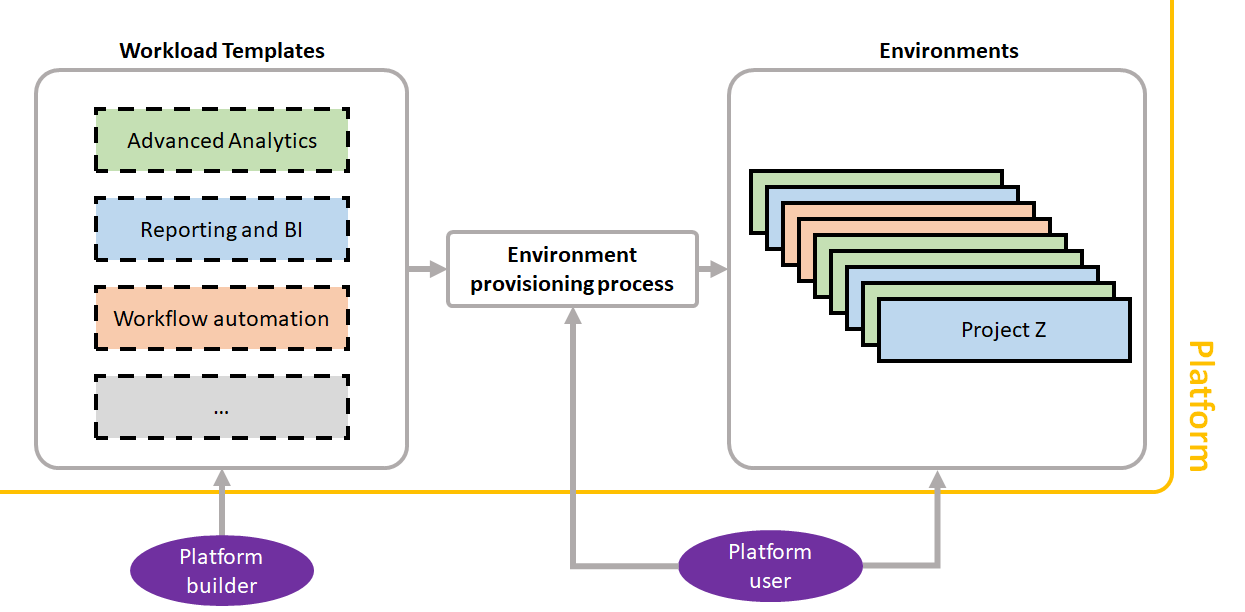
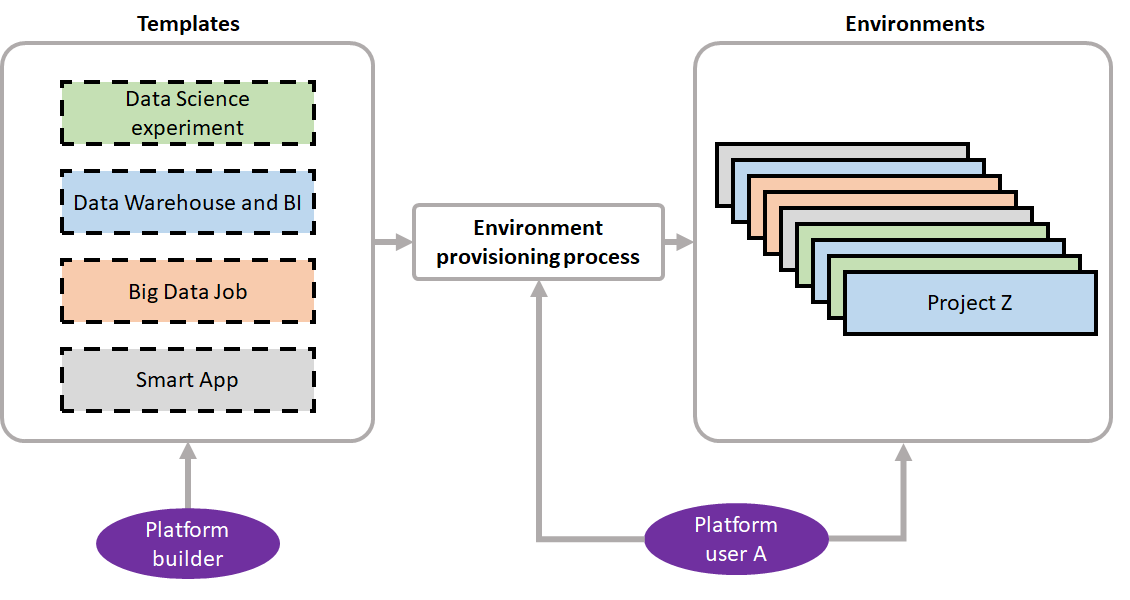
second review pass

Changed region(s): [[0.0, 0.0, 0.9912, 0.99]]

diff --git a/_posts/2020-12-29-insights-platform.md b/_posts/2020-12-29-insights-platform.md
@@ -3,9 +3,8 @@ layout: post
 author: diogojc
 title:  "Insights platform for 'data-driven' organizations"
 image: "/assets/2020-12-29-insights-platform/services.png"
-excerpt: "How can a highly diverse and segmented workforce, in an organization, make more and better decisions by combining their knowledge with access to data and technology? How can the learned insights be put to work and reused across the organization? What role should Information Technology (IT) departments play in this data-driven transformation?
-This article will bring these together and propose a set of digital services through a *centralized platform open for decentralized contributions* I will refer to as Insights Platform (or simply Platform). I argue that, although not a guarantee, the services in this platform can help organizations in this transformation."
-description: "In a spectrum that begins in letting everyone 'do their thing' and ends in centralizing everything in IT, this article defends a position in the middle that allows individuals to quickly put their knowledge to work wherever they are in the organization while allowing IT to maintain safeguards, manage and bound the complexity of the underlying technology stack."
+excerpt: "Although every organization journey in becoming data-driven is unique and multi-faceted, in my experience, there is at least one aspect that can accelerate and bring clarity during this journey across all organizations. In this article I will focus on that aspect and propose a set of digital services, forming a *centralized platform open for decentralized contributions*, further called Insights platform or simply platform."
+description: "Although every organization journey in becoming data-driven is unique and multi-faceted, in my experience, there is at least one aspect that can accelerate and bring clarity during this journey across all organizations. In this article I will focus on that aspect and propose a set of digital services, forming a *centralized platform open for decentralized contributions*, further called Insights platform or simply platform."
 date: 2020-12-29
 categories: [enterprise, platform]
 tags: [data, transformation, insights, platform, IT, organization, services, analytics, lake, warehouse, embedded, digital]
@@ -44,7 +43,7 @@ Although the promises and pursue of a 'data-driven' transformation are not new i
 
 A great amount of focus is often given to technology patterns (e.g. data lakes, lambda/kappa architectures) and processes (e.g. Agile) but unfortunately, in my experience, these don't empower enough the organizations individuals and teams, and often end up as a simple rebrand of existing processes and artifacts.
 
-Bellow are some real examples, from my experience, on how organizations fail to empower their workforce to make better decisions using data.
+Below are some real examples, from my experience, on how organizations fail to empower their workforce to make better decisions using data.
 
 As an employee, I understand a part of my organization business and I need to look at relevant data.
 I quickly discover, that data is stored away in a database protected by IT. After I build a business case and convince someone for access I get an SAP database export with terms and relationships I do not understand, I reach out to SAP admins to understand them. After four months I'm finally looking at data I can understand.
@@ -133,9 +132,10 @@ The foundation will be the result of the infrastructure, controls and processes 
 ----------
 
 ### Data
-The data (as-a) service must deliver, first and foremost, high value data using as much as possible terms and relationships directly captured from the language used by the workforce and made available through interfaces, that are consumable by tools available to that workforce.
+The data (as-a) service must deliver, first and foremost, high value data using, as much as possible, terms and relationships captured from the language used by the workforce and made available through interfaces, that are usable by tools available to that workforce.
 
-Because there are multiple correct and overlapping ways to describe data so must we. This service will consist of, possibly overlapping, sets of data, or datasets, that hold data in very narrow contexts of the organization. A context will be a specific slice of an arbitrary number of the organization (sub) domains.
+Because there are multiple correct and overlapping ways to describe data so must we. This service will consist of, possibly overlapping, sets of data, or datasets, each holding data in very narrow contexts of the organization. A context is often a sub-domain in the organization delimited by business units or teams.
+
 This is very much like Domain Driven Design (DDD) approach to break down very large models filled with ambiguity and sometimes conflicting terminology to smaller domain models living in bounded contexts tackling narrower domain problems [^5].
 
 {% include figure.html
@@ -143,37 +143,31 @@ This is very much like Domain Driven Design (DDD) approach to break down very la
            description="Example of Sales and Support Bounded Contexts in Domain-Driven Design"
 %}
 
-The argument for this approach is that by having domain experts and data modelers share the same language in narrower sub-domains, it becomes easier for the experts (workforce) to consume data from these models and for the modelers to work independently from each other in different domain areas.
+The argument for multiple models is that by having domain experts (workforce) and data modelers share the same language in narrower sub-domains, it becomes easier for the domain experts (workforce) to consume data from these models and for the modelers to work independently from each other in different domain areas.
 
-At the center of this service will therefore be the implementation of these datasets. More concretely the models, their interfaces and the mechanisms by which those interfaces are used to consume and publish data.
+At the core of each dataset is a model and its persistence to a storage medium in a highly normalized form. Around the model are the mechanisms by which that model is both filled with data (pull/push, streaming/pooling, ETL/ELT, etc.) and made available for consumption (XMLA, SQL, Parquet, normalized/denormalized etc.).
 
-Around these datasets will be the implementations of the interfaces to the outside world. These are the connections with transactional sources (pull/push, streaming/pooling, through a database or files, etc.) and the logic necessary to present this data through specific APIs (XMLA, SQL, Parquet, etc.)
-
-This approach is quite similar to the ports and adapters pattern [^6] for isolating application logic and infrastructure. The motivation is to enable the development of the models to be decoupled from the ever evolving transactional systems and end-user tools.
+This approach is similar to the ports and adapters pattern [^6], illustrated below, for isolating application logic and infrastructure. The motivation is to enable the development of the models to be decoupled from the ever evolving transactional systems and end-user tools.
 
 {% include figure.html
            url="/assets/2020-12-29-insights-platform/ports-and-adapters.png"
            description="Ports and adapters architecture illustration"
 %}
 
-  * Yellow: A domain context (e.g. Sales) with implementations for a data model and storage mediums.
-  * Red: Interfaces of the model with the outside world (e.g. Customer Repository).
-  * Light Blue: Implementation of data movement from outside systems into datasets (e.g. customer extraction from CRM and transactional systems).
-  * Dark Blue: Implementation of APIs for data consumption (e.g. XMLA with sales results).
+  * Yellow: Data model including its storage implementation and medium. (e.g. logical model and it's third normal form on SQL)
+  * Red: Interfaces specifying how the model is filled with data and make data available for consumption
+  * Light Blue: Implementation of the interfaces that bring data from outside systems into the model (e.g ETL filling all customers from transactional SQL database).
+  * Dark Blue: Implementation of interfaces for data consumption (e.g. XMLA with denormalized sales results).
 
-Typically the broader an organizations business model the more contexts there will be to fit data into, and therefore datasets that can delivered in this service. Prioritization should be done based on demand. Although the owners of this platform are always accountable, the implementation of specific datasets can be sourced to other parts of the organization closer to the context in question.
+Although the owners of this platform are always accountable, implementation responsibility can be in other parts of the organization closer to the context in question.
 
-Although I argue the investment in integrating data and making it interpretable through the usage of context specific languages is this service biggest asset, it does not exclude the usage of tools for metadata cataloguing helping users find the appropriate dataset location and gain trust how that data ends up in front of them.
+Tools for metadata management, cataloguing and lineage can work next to these datasets to help employees find the appropriate dataset, location, provenance.
 
-On the topic of filling these models and interfaces with data the owners of the platform can take one of two approaches.
-  * Connect to the systems of data as they are, copy the data and map it to the models.
-  * Create an interface for ingestion and push the responsibility of connection, copying and mapping to other parts of the organization.
-In terms of ports and adapters architecture, should the platform owners be responsible for only its ports or also its adapters?
+On the topic of who fills these models with data, the owners of the platform can take one of two approaches.
+  * Connecting to systems of data as they are and bringing the data to the models is part of implementing the service.
+  * Implement an interface for ingestion and push the responsibility of connecting, mapping and pushing data into the model to other parts of the organization.
 
 Both approaches scale differently as you would expect for heterogeneous landscapes of data systems. 
-
-<span style="color:red">**architect of this part goes here**</span>.
-
 
 ----------
 
@@ -199,11 +193,11 @@ For a tool to be available in these environments it must meet only two requireme
 Tools can either come provisioned and configured in the environments or the environments allow the employee to self-service that provisioning and configuration.
 Although the second approach can work well for tech-savvy employees, the first approach can speed up significantly the work of tech-savvy and non tech-savvy employees alike. To this extent the platform offers multiple environment types that cater to different workloads reoccurring often in the organization.
 
-Bellow are examples of workloads commonly found in organizations:
+Below are examples of workloads I find often in organizations:
 
   * Data Science experiment:
-  Extracting insights from structured or unstructured data, typically applying scientific processes and techniques from multiple disciplines like operational research, data mining, statistics, machine learning or artificial intelligence and others.
-  Typical outcomes are i) document of experiment with findings, methodology and conclusions, ii) Optimized plan that minimizes some cost function and/or ii) a trained model that can do inference on new data.
+  Extracting insights from structured or unstructured data, typically applying scientific processes and techniques from multiple disciplines like operational research, data mining, statistics, machine learning, artificial intelligence and others.
+  Typical outcomes are i) document of experiment with findings, methodology and conclusions, ii) Optimized plan that minimizes some cost function and/or iii) a trained model that can do inference on new data to some level of accuracy.
   Such experiments include finding correlations, performing sensitivity analysis, signal processing, forecasting, image processing, classification, finding latent structures to name a few.
 
   * the Data Warehouse and BI solution:
@@ -252,9 +246,9 @@ The key in speeding up the reuse of IP, is by transferring the ownership of supp
 %}
 
 As part of this transition, re-hosting the IP in shared infrastructure allows for i) lowering running costs and ii) scale support for application and infrastructure separately.
-
 An example of such re-hosting would be moving all solutions IP during the transition to containers (e.g. Docker) and a container orchestration tool (e.g. Kubernetes).
 
+Another change in this transition would be making these solutions multi-tenant and creating interfaces and documentation on how new teams in the organization can open a new tenant space and onboard their own data.
 
 ----------
 
